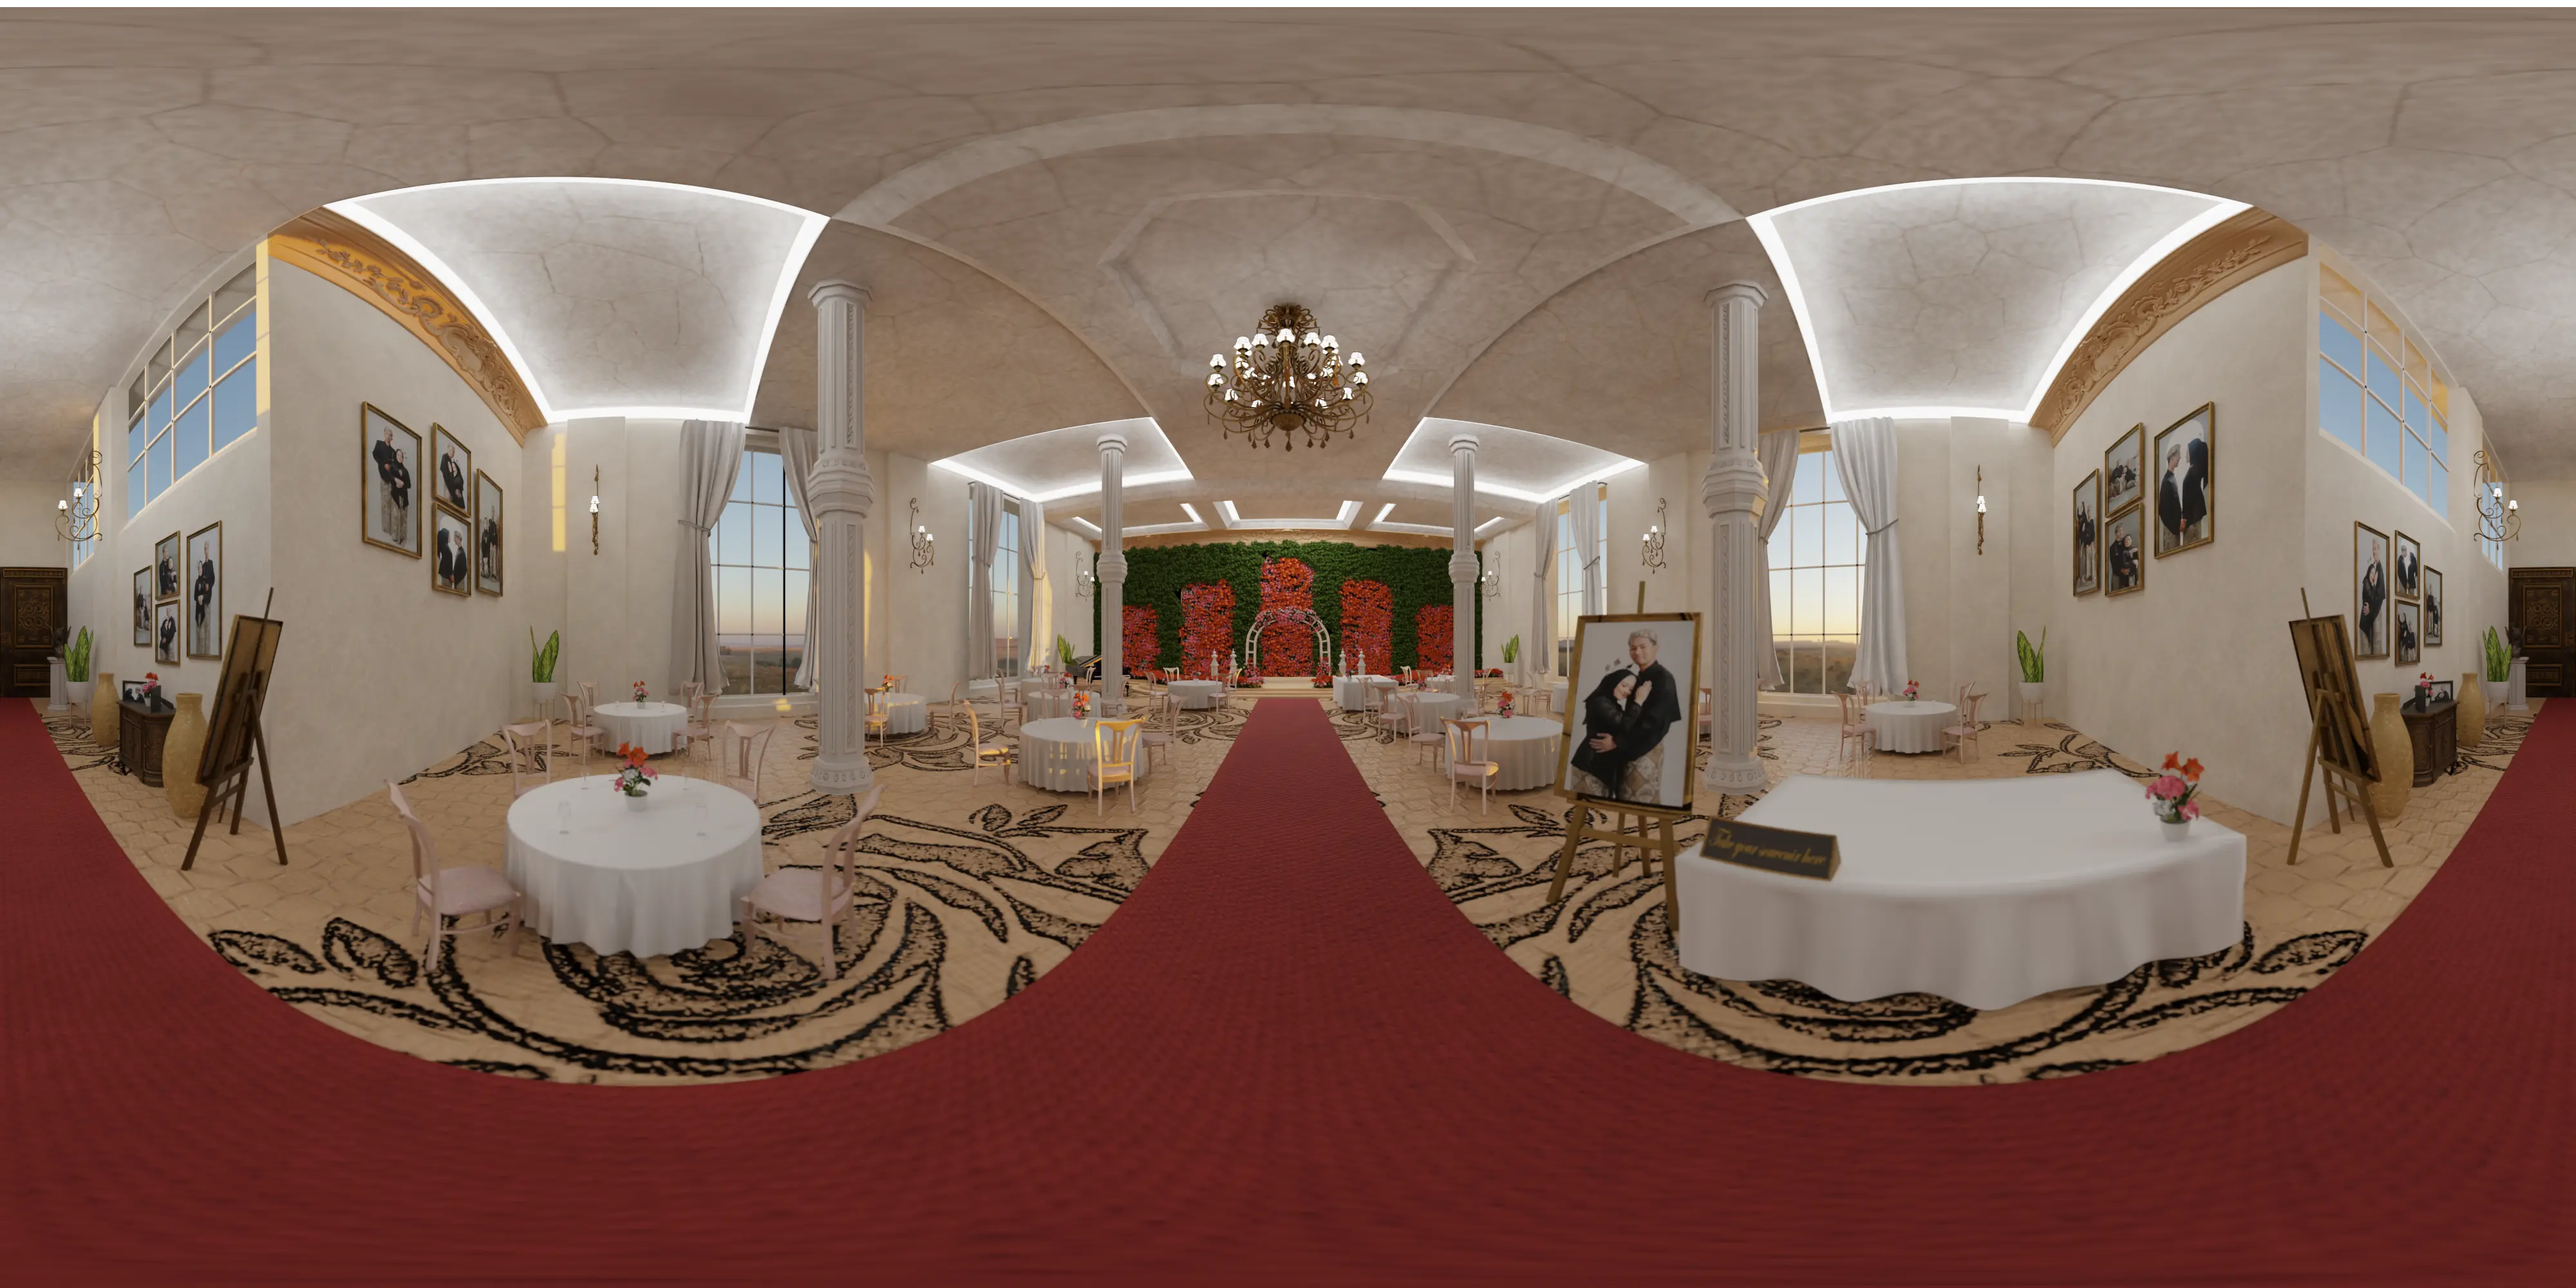
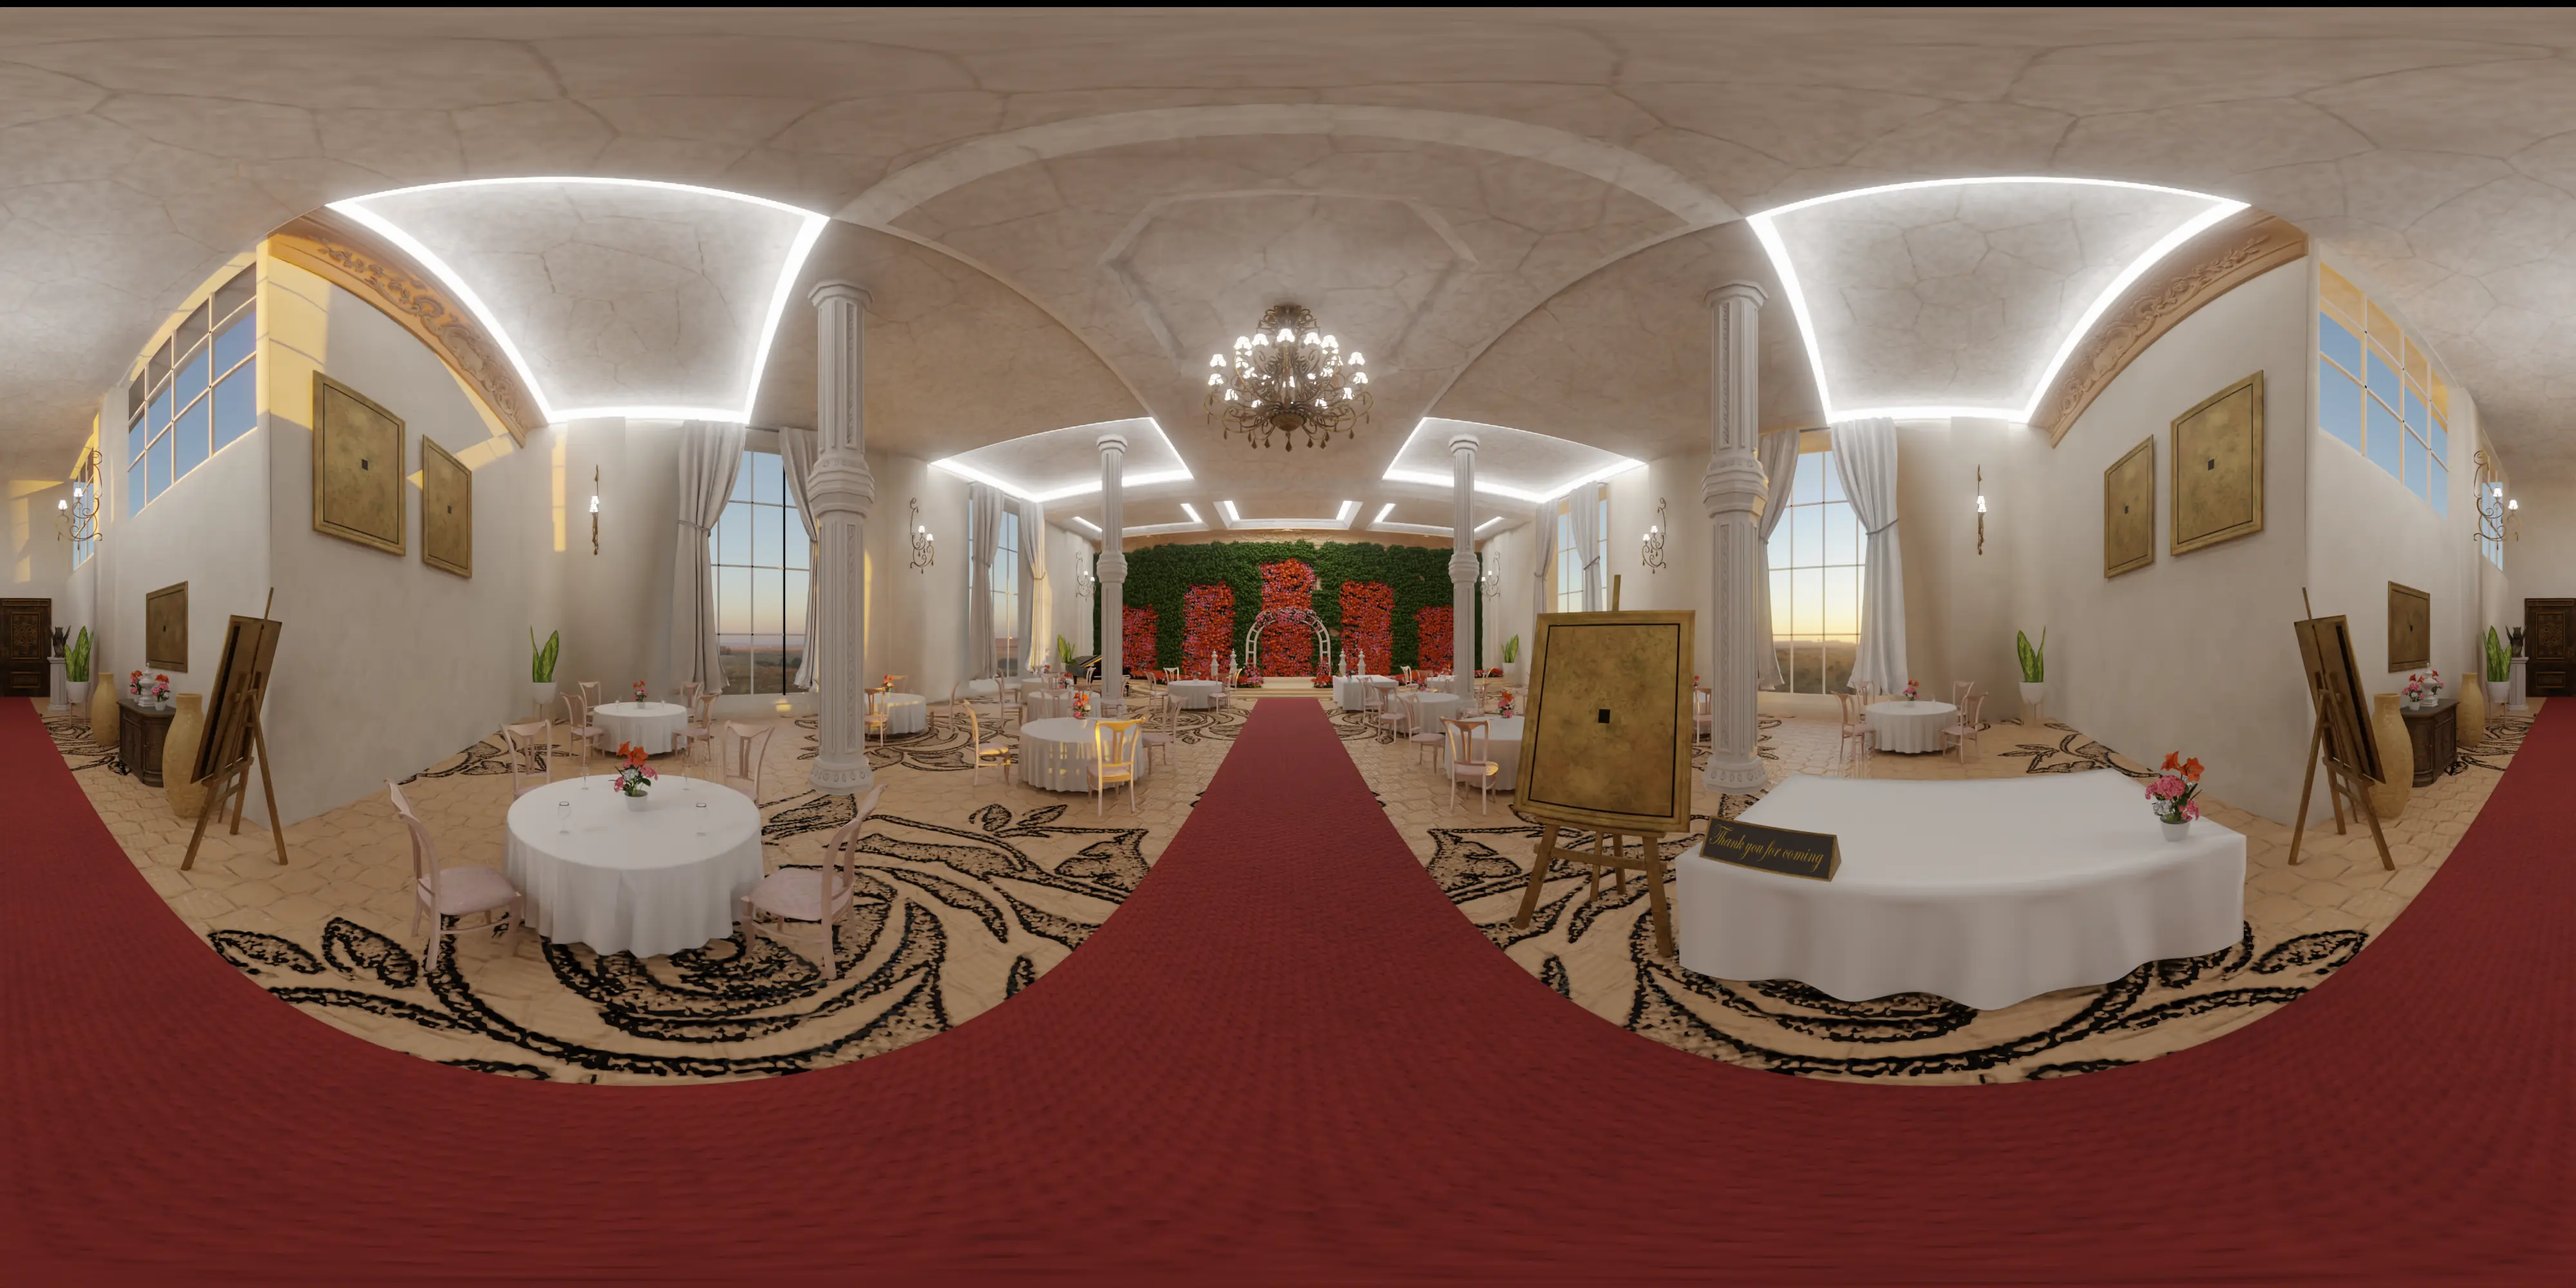
add: Dynamic Image Koridor & Front RV

diff --git a/src/components/ResepsiVirtual.tsx b/src/components/ResepsiVirtual.tsx
@@ -126,6 +126,24 @@ const ResepsiVirtual: React.FC<PanoProps> = ({ dataPano, lang }) => {
 
     // KORIDOR
     const bridePicture1 = useRef(null);
+    const bridePicture2 = useRef(null);
+    const bridePicture3 = useRef(null);
+    const bridePicture4 = useRef(null);
+    const bridePicture5 = useRef(null);
+    const bridePicture6 = useRef(null);
+    const bridePicture7 = useRef(null);
+
+    // FRONT
+    const bridePicture8 = useRef(null);
+    const bridePicture9 = useRef(null);
+    const bridePicture10 = useRef(null);
+    const bridePicture11 = useRef(null);
+
+    // BACK
+    const bridePicture12 = useRef(null);
+    const bridePicture13 = useRef(null);
+    const bridePicture14 = useRef(null);
+    const bridePicture15 = useRef(null);
 
 
     const wedding = useSelector((state: RootState) => state.value.wedding);
@@ -386,6 +404,8 @@ const ResepsiVirtual: React.FC<PanoProps> = ({ dataPano, lang }) => {
                     gantiUcapan.current?.addEventListener('click', function () {
                         switchScene(panoScenes[1])
                         panoScenes[1].scene.lookTo({ yaw: 0, pitch: -0.056795042541741836 }, { transitionDuration: 0 })
+                        // modalUcapanSelamat.isOpen
+                        modalUcapanSelamat.onOpen()
                     })
                 }
 
@@ -405,15 +425,30 @@ const ResepsiVirtual: React.FC<PanoProps> = ({ dataPano, lang }) => {
 
 
 
-
+            // 1 = {yaw: 2.7664720145284134, pitch: -0.13936477893798127}
+            // 2 = {yaw: 2.896924155498631, pitch: -0.1448877727448732}
+            // 3 = {yaw: -2.898176835461687, pitch: -0.1445024049846424}
+            // 4 = {yaw: -2.767850265539211, pitch: -0.13883335444879563}
 
 
             // ==================================================================================================
 
             const containerKoridor = panoScenes[0].scene.hotspotContainer();
             if (containerKoridor) {
-                containerKoridor.createHotspot(bridePicture1.current, { yaw: 1.1165199114658257, pitch: 0.009338294282953186 },
-                    { perspective: { radius: 3175, extraTransforms: "rotateY(-25deg)" } });
+                containerKoridor.createHotspot(bridePicture1.current, { yaw: -1.164598164451725, pitch: -0.3047599598934614 },
+                    { perspective: { radius: 2080, extraTransforms: "rotateY(25deg) rotateX(15deg) rotateZ(7deg)" } });
+                containerKoridor.createHotspot(bridePicture2.current, { yaw: -0.7283039004229686, pitch: -0.06379271830326516 },
+                    { perspective: { radius: 3830, extraTransforms: "rotateY(46deg) rotateX(3deg) rotateZ(3deg)" } });
+                containerKoridor.createHotspot(bridePicture3.current, { yaw: -0.38660091738350033, pitch: 0.0854400652578704 },
+                    { perspective: { radius: 4550, extraTransforms: "rotateY(7deg) rotateX(12deg) rotateZ(-0.75deg)" } });
+                containerKoridor.createHotspot(bridePicture4.current, { yaw: 0.16648722780547587, pitch: 0.04460063328119723 },
+                    { perspective: { radius: 8850, extraTransforms: "rotateY(-45deg) rotateX(12deg) rotateZ(2deg)" } });
+                containerKoridor.createHotspot(bridePicture5.current, { yaw: 0.3852822083866734, pitch: 0.08653882466922802 },
+                    { perspective: { radius: 4550, extraTransforms: "rotateY(-7deg) rotateX(12deg) rotateZ(0.75deg)" } });
+                containerKoridor.createHotspot(bridePicture6.current, { yaw: 0.7285051078120084, pitch: -0.06574146003724834 },
+                    { perspective: { radius: 3830, extraTransforms: "rotateY(-46deg) rotateX(3deg) rotateZ(-3deg)" } });
+                containerKoridor.createHotspot(bridePicture7.current, { yaw: 1.1642880111712266, pitch: -0.30463877068957146 },
+                    { perspective: { radius: 2080, extraTransforms: "rotateY(-25deg) rotateX(15deg) rotateZ(-7deg)" } });
 
             } else {
                 console.error("Element with ID 'iframespot' not found.");
@@ -425,6 +460,14 @@ const ResepsiVirtual: React.FC<PanoProps> = ({ dataPano, lang }) => {
                     { perspective: { radius: 300, extraTransforms: "rotateY(0deg)" } });
                 containerFront.createHotspot(berikanHadiah.current, { yaw: 1.4731802513717511, pitch: 0.17922631245596676 },
                     { perspective: { radius: 300, extraTransforms: "rotateY(0deg)" } });
+                containerFront.createHotspot(bridePicture8.current, { yaw: 2.7664720145284134, pitch: -0.13936477893798127 },
+                    { perspective: { radius: 9000, extraTransforms: "rotateY(-18deg) rotateX(8deg) rotateZ(-3deg)" } });
+                containerFront.createHotspot(bridePicture9.current, { yaw: 2.896924155498631, pitch: -0.1448877727448732 },
+                    { perspective: { radius: 8700, extraTransforms: "rotateY(-12deg) rotateX(8deg) rotateZ(-2deg)" } });
+                containerFront.createHotspot(bridePicture10.current, { yaw: -2.898176835461687, pitch: -0.1445024049846424 },
+                    { perspective: { radius: 8700, extraTransforms: "rotateY(12deg) rotateX(8deg) rotateZ(2deg)" } });
+                containerFront.createHotspot(bridePicture11.current, { yaw: -2.767850265539211, pitch: -0.13883335444879563 },
+                    { perspective: { radius: 9000, extraTransforms: "rotateY(18deg) rotateX(8deg) rotateZ(3deg)" } });
 
             } else {
                 console.error("Element with ID 'iframespot' not found.");
@@ -446,33 +489,23 @@ const ResepsiVirtual: React.FC<PanoProps> = ({ dataPano, lang }) => {
             }
 
             // CHECK COORDS
-            // var pano = panoRef.current;
-            // pano.addEventListener('click', (e: any) => {
-            //     var view = viewer.view();
-            //     console.log(view.screenToCoordinates({ x: e.clientX, y: e.clientY }))
-            // });
+            var pano = panoRef.current;
+            pano?.addEventListener('click', (e: any) => {
+                var view = viewer.view();
+                console.log(view.screenToCoordinates({ x: e.clientX, y: e.clientY }))
+            });
 
 
 
             return () => {
                 document.removeEventListener('click', checklookToHadiah);
 
-                // viewer.destroy();
+                viewer.destroy();
             }
         }
 
 
     }, [dataPano]);
-
-    useEffect(() => {
-
-
-
-        // return () => {
-        //     second
-        // }
-    }, [])
-
 
     return (
         <>
@@ -736,9 +769,75 @@ const ResepsiVirtual: React.FC<PanoProps> = ({ dataPano, lang }) => {
             </Modal >
 
             {/* KORIDOR */}
-            <div ref={bridePicture1} className='relative w-[1350px] h-[1080px]'>
+            <div ref={bridePicture1} className='relative w-[1024px] h-[768px]'>
                 <Image
                     src={`https://sgp1.vultrobjects.com/virtuwed-storage/` + wedding.media.prewedding_photos[0]}
+                    alt="Moment pengantin"
+                    className="object-cover object-center min-w-full w-full h-full"
+                    width={500}
+                    height={500}
+                    priority
+                    id='bridePicture1Click'
+                />
+            </div >
+            <div ref={bridePicture2} className='relative w-[1350px] h-[1080px]'>
+                <Image
+                    src={`https://sgp1.vultrobjects.com/virtuwed-storage/` + wedding.media.prewedding_photos[1]}
+                    alt="Moment pengantin"
+                    className="object-cover object-center min-w-full w-full h-full"
+                    width={500}
+                    height={500}
+                    priority
+                    id='bridePicture1Click'
+                />
+            </div >
+            <div ref={bridePicture3} className='relative h-[1024px] w-[768px]'>
+                <Image
+                    src={`https://sgp1.vultrobjects.com/virtuwed-storage/` + wedding.media.prewedding_photos[2]}
+                    alt="Moment pengantin"
+                    className="object-cover object-center min-w-full w-full h-full"
+                    width={500}
+                    height={500}
+                    priority
+                    id='bridePicture1Click'
+                />
+            </div >
+            <div ref={bridePicture4} className='relative h-[1024px] w-[768px]'>
+                <Image
+                    src={`https://sgp1.vultrobjects.com/virtuwed-storage/` + wedding.media.prewedding_photos[3]}
+                    alt="Moment pengantin"
+                    className="object-cover object-center min-w-full w-full h-full"
+                    width={500}
+                    height={500}
+                    priority
+                    id='bridePicture1Click'
+                />
+            </div >
+            <div ref={bridePicture5} className='relative h-[1024px] w-[768px]'>
+                <Image
+                    src={`https://sgp1.vultrobjects.com/virtuwed-storage/` + wedding.media.prewedding_photos[4]}
+                    alt="Moment pengantin"
+                    className="object-cover object-center min-w-full w-full h-full"
+                    width={500}
+                    height={500}
+                    priority
+                    id='bridePicture1Click'
+                />
+            </div >
+            <div ref={bridePicture6} className='relative w-[1350px] h-[1080px]'>
+                <Image
+                    src={`https://sgp1.vultrobjects.com/virtuwed-storage/` + wedding.media.prewedding_photos[5]}
+                    alt="Moment pengantin"
+                    className="object-cover object-center min-w-full w-full h-full"
+                    width={500}
+                    height={500}
+                    priority
+                    id='bridePicture1Click'
+                />
+            </div >
+            <div ref={bridePicture7} className='relative w-[1024px] h-[768px]'>
+                <Image
+                    src={`https://sgp1.vultrobjects.com/virtuwed-storage/` + wedding.media.prewedding_photos[6]}
                     alt="Moment pengantin"
                     className="object-cover object-center min-w-full w-full h-full"
                     width={500}
@@ -1142,6 +1241,54 @@ const ResepsiVirtual: React.FC<PanoProps> = ({ dataPano, lang }) => {
                     )}
                 </ModalContent>
             </ Modal >
+
+            <div ref={bridePicture8} className='relative h-[1024px] w-[768px]'>
+                <Image
+                    src={`https://sgp1.vultrobjects.com/virtuwed-storage/` + wedding.media.prewedding_photos[1]}
+                    alt="Moment pengantin"
+                    className="object-cover object-center min-w-full w-full h-full"
+                    width={500}
+                    height={500}
+                    priority
+                    id='bridePicture1Click'
+                />
+            </div >
+
+            <div ref={bridePicture9} className='relative h-[1024px] w-[768px]'>
+                <Image
+                    src={`https://sgp1.vultrobjects.com/virtuwed-storage/` + wedding.media.prewedding_photos[8]}
+                    alt="Moment pengantin"
+                    className="object-cover object-center min-w-full w-full h-full"
+                    width={500}
+                    height={500}
+                    priority
+                    id='bridePicture1Click'
+                />
+            </div >
+
+            <div ref={bridePicture10} className='relative h-[1024px] w-[768px]'>
+                <Image
+                    src={`https://sgp1.vultrobjects.com/virtuwed-storage/` + wedding.media.prewedding_photos[9]}
+                    alt="Moment pengantin"
+                    className="object-cover object-center min-w-full w-full h-full"
+                    width={500}
+                    height={500}
+                    priority
+                    id='bridePicture1Click'
+                />
+            </div >
+
+            <div ref={bridePicture11} className='relative h-[1024px] w-[768px]'>
+                <Image
+                    src={`https://sgp1.vultrobjects.com/virtuwed-storage/` + wedding.media.prewedding_photos[10]}
+                    alt="Moment pengantin"
+                    className="object-cover object-center min-w-full w-full h-full"
+                    width={500}
+                    height={500}
+                    priority
+                    id='bridePicture1Click'
+                />
+            </div >
 
             {/* BACK */}
             < div ref={checkout} >
